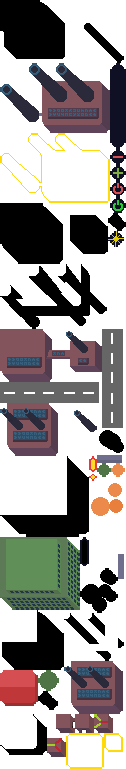
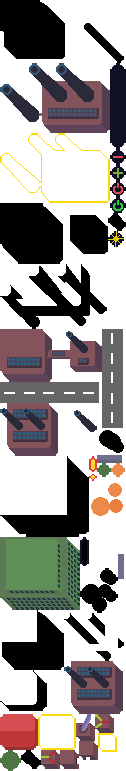
Switch #1

diff --git a/src/entity/pipeSystem/Switch.ts b/src/entity/pipeSystem/Switch.ts
@@ -1,0 +1,101 @@
+import Container = Phaser.GameObjects.Container;
+import { InputSocket } from 'entity/pipeSystem/InputSocket';
+import { OutputSocket } from 'entity/pipeSystem/OutputSocket';
+import GameScene from 'scenes/GameScene';
+import Vector2 = Phaser.Math.Vector2;
+import PipeVisual from 'entity/pipeSystem/PipeVisual';
+
+export default class Switch extends Container implements OutputSocket, InputSocket {
+
+    protected scene: GameScene;
+
+    private inputSocket: OutputSocket|null = null;
+    private outputSocket: InputSocket|null = null;
+    private outputPipe: PipeVisual|null = null;
+    private inputPipe: PipeVisual|null = null;
+    private image: Phaser.GameObjects.Image;
+    private overlay: Phaser.GameObjects.Sprite;
+
+    constructor (scene: GameScene, x, y) {
+        super(scene, x, y, []);
+        scene.add.existing(this);
+
+        this.scene = scene;
+
+        this.image = this.scene.add.image(0, 0, 'assets', 'switch');
+        this.add(this.image);
+
+        this.overlay = this.scene.add.sprite(0, 0, 'assets', 'splitter_overlay').setAlpha(0.00001);
+        this.overlay.setInteractive({ useHandCursor: true });
+        this.add(this.overlay);
+
+        this.overlay.on('pointerdown', () => {
+            if (this.scene.pipeSystem.isDisconnectMode()) {
+                console.log('HEAT: switch destroy');
+                this.outputPipe?.destroy();
+                this.inputPipe?.destroy();
+                return;
+            }
+            if (this.scene.pipeSystem.isConnectingMode()) {
+                this.scene.pipeSystem.completeConnecting(this);
+
+            }
+            if (this.outputPipe) {
+                this.scene.ui.showSocketOccupied();
+            } else {
+                this.scene.pipeSystem.startConnecting(this);
+            }
+        });
+
+        this.overlay.on('pointerover', () => {
+            this.overlay.setAlpha(1);
+        });
+
+        this.overlay.on('pointerout', () => {
+            this.overlay.setAlpha(0.0001);
+        });
+    }
+
+    disconnect (onlyInput: boolean): void {
+    }
+
+    getInputSocket (): OutputSocket | null {
+        return this.inputSocket;
+    }
+
+    getOutputObject (): InputSocket | null {
+        return this.outputSocket;
+    }
+
+    getOutputPower (): number | null {
+        return null;
+    }
+
+    getPosition (): Phaser.Math.Vector2 {
+        return new Vector2(
+            this.x,
+            this.y
+        );
+    }
+
+    getRequiredHeat (): number {
+        return 0;
+    }
+
+    sendHeat (heatValue: number): void {
+        if (this.outputSocket) {
+            this.outputSocket.sendHeat(heatValue);
+        }
+    }
+
+    setInputSocket (object: OutputSocket, pipe: PipeVisual): void {
+        this.inputSocket = object;
+        this.inputPipe = pipe;
+    }
+
+    setOutputObject (object: InputSocket, pipe: PipeVisual): void {
+        this.outputSocket = object;
+        this.outputPipe = pipe;
+        pipe.setStrokeStyle(2, 0xeff500);
+    }
+}

diff --git a/src/core/Builder.ts b/src/core/Builder.ts
@@ -1,9 +1,10 @@
 import WorldEnvironment from 'core/WorldEnvironment';
+import Splitter from 'entity/pipeSystem/Splitter';
 import { Building } from 'enums/Building';
+import { Depths } from 'enums/Depths';
 import GameScene from 'scenes/GameScene';
 import Image = Phaser.GameObjects.Image;
-import Splitter from 'entity/pipeSystem/Splitter';
-import { Depths } from 'enums/Depths';
+import Switch from 'entity/pipeSystem/Switch';
 
 export default class Builder {
 
@@ -46,8 +47,15 @@ export default class Builder {
     finishBuilding (worldX: number, worldY: number): void {
         if (!this.isBuildMode()) return;
 
-        const obj = new Splitter(this.scene, worldX, worldY);
-        this.worldEnvironment.splitters.add(obj);
+        if (this.buildMode === Building.SPLITTER) {
+            const obj = new Splitter(this.scene, worldX, worldY);
+            this.worldEnvironment.splitters.add(obj);
+        } else if (this.buildMode === Building.SWITCH) {
+            const obj = new Switch(this.scene, worldX, worldY);
+            this.worldEnvironment.switches.add(obj);
+        }
+
+
         this.previewImage.setPosition(-100, -100).setVisible(false);
         this.buildMode = null;
     }

diff --git a/src/core/WorldEnvironment.ts b/src/core/WorldEnvironment.ts
@@ -7,6 +7,7 @@ import Editor from 'core/editor/Editor';
 import Zone from 'core/Zone';
 import Group = Phaser.GameObjects.Group;
 import Splitter from 'entity/pipeSystem/Splitter';
+import Switch from 'entity/pipeSystem/Switch';
 
 export default class WorldEnvironment {
 
@@ -22,6 +23,7 @@ export default class WorldEnvironment {
     public readonly roadsGroup: Group;
     public readonly heaterGroup: Group;
     public readonly splitters: Group
+    public readonly switches: Group
     private treeSpawner: TreeSpawner;
 
     constructor (scene: GameScene) {
@@ -44,11 +46,15 @@ export default class WorldEnvironment {
         this.roadsGroup = this.editor.getLayerGroupByName('roads');
         this.heaterGroup = this.editor.getLayerGroupByName('heater');
         this.splitters = this.scene.add.group();
+        this.switches = this.scene.add.group();
 
         this.zone = new Zone(this.scene, this);
 
         let testSplitter = new Splitter(this.scene, 500, 500);
         this.splitters.add(testSplitter);
+
+        let testSwitch = new Switch(this.scene, 500, 600);
+        this.switches.add(testSwitch);
     }
 
     update (): void {

diff --git a/src/entity/pipeSystem/Splitter.ts b/src/entity/pipeSystem/Splitter.ts
@@ -105,6 +105,14 @@ export default class Splitter extends Container implements InputSocket, DoubleOu
             }
         });
 
+        this.overlay.on('pointerover', () => {
+            this.overlay.setAlpha(1);
+        });
+
+        this.overlay.on('pointerout', () => {
+            this.overlay.setAlpha(0.0001);
+        });
+
         // plus
         this.plusButton = this.scene.add.image(
             this.x + 20,

diff --git a/src/index.html b/src/index.html
@@ -20,6 +20,9 @@
                 <div class="actionButton" id="buildSplitter">
                     Splitter
                 </div>
+                <div class="actionButton" id="buildSwitch">
+                    Switch
+                </div>
             </div>
             <div id="editor">
                 <div class="pickedObject"></div>

diff --git a/src/ui/UI.ts b/src/ui/UI.ts
@@ -29,6 +29,10 @@ export default class UI {
         $('#buildCombiner').on('click', () => {
             this.scene.builder.startBuild(Building.COMBINER);
         });
+
+        $('#buildSwitch').on('click', () => {
+            this.scene.builder.startBuild(Building.SWITCH);
+        });
     }
 
     update () {
